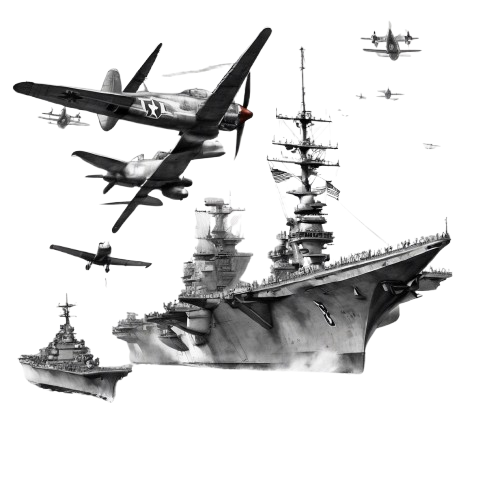
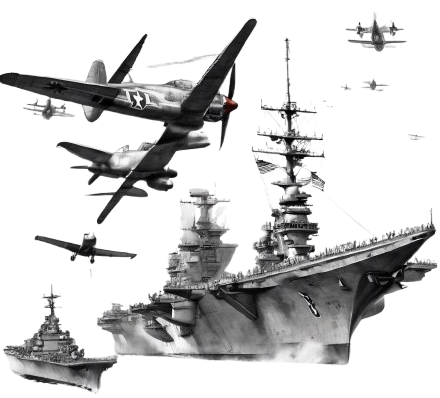
Landing page - Update with Substack Subscribe (#3)
* Working on landing page
- Implemented some media queries. Can I alter variable in media query?
- Wish there were a better hover effect for my links - maybe just do grow

* Finishing up landing page

* Add static zip (for cloudflare workers)

* Tweak styling for big screens

* zip isn't helpful

* Add substack subscribe

* Crop img

---------

diff --git a/static_landing/index.html b/static_landing/index.html
@@ -10,6 +10,15 @@
       href="https://fonts.googleapis.com/css2?family=Outfit:wght@100..900&family=Rosarivo:ital@0;1&display=swap"
       rel="stylesheet"
     />
+    <meta name="title" content="Historio - Explore history" />
+    <meta name="image" content="./img/logo_transparent.png" />
+
+    <meta
+      name="description"
+      content="An app to explore history that scratches my own itch. With NextJS, Supabase, Edge Functions, and a few clever AI Agents behind the scenes."
+    />
+    <meta name="author" content="Jordan Haines" />
+
     <title>Historio</title>
   </head>
   <body>
@@ -49,14 +58,31 @@
         </div>
       </div>
     </div>
-    <div class="images-footer">
-      <img src="./img/fire.png" alt="Discovery of Fire" />
-      <img src="./img/rome.png" alt="Rome" />
-      <img
-        style="opacity: 0.95; margin-top: 36px"
-        src="./img/midway_transparent.png"
-        alt="Warship and plane"
-      />
+    <div class="subscribe-container">
+      <div class="iframe-container">
+        <h2 class="itim">Subscribe to my Substack</h2>
+        <p>
+          To follow along as I build Historio. Posts include in-depth technical
+          tutorials, musings on product development, and everything in between.
+        </p>
+        <iframe
+          src="https://learnbuildteach.substack.com/embed"
+          width="480"
+          height="320"
+          style="border: 1px solid #eee; background: white"
+          frameborder="0"
+          scrolling="no"
+        ></iframe>
+      </div>
+      <div class="images-footer">
+        <img src="./img/fire.png" alt="Discovery of Fire" />
+        <img src="./img/rome.png" alt="Rome" />
+        <img
+          style="opacity: 0.95; margin-top: 36px"
+          src="./img/midway_transparent.png"
+          alt="Warship and plane"
+        />
+      </div>
     </div>
   </body>
 </html>

diff --git a/static_landing/main.scss b/static_landing/main.scss
@@ -113,18 +113,40 @@ h1 {
         }
     }
 }
+.subscribe-container {
+    margin-top: $padding * 1.5;
+    display: flex;
+    justify-content: space-around;
+    align-items: flex-end;
+    .iframe-container {
+        width: 480px;
+        text-align: center;
+        h2 {
+            margin-bottom: 4px;
+        }
+    }
+}
 .images-footer {
     display: flex;
     justify-content: space-around;
-    margin-top: $padding * 1.5;
+    flex-wrap: wrap;
+    width: 480px;
     img {
-        height: 200px;
-        border-radius: 20%;
+        height: 150px;
+        margin: 0 25px;
+        border-radius: 30%;
         opacity: 0.76;
     }
 }
 
 @media(max-width: $breakpointmd) {
+    .subscribe-container {
+        flex-direction: column;
+        align-items: center;
+        .images-footer {
+            margin-top: $padding * 1.5;
+        }
+    }
     .header {
         margin-bottom: $padding/3;
         padding-right: $padding/3;
@@ -185,12 +207,5 @@ h1 {
             height: 80px;
             margin: 0 !important;
         }
-    }
-}
-@media(min-height: 900px) {
-    .images-footer {
-        position: fixed;
-        bottom: $padding;
-        width: 100vw;
     }
 }

diff --git a/static_landing/main.css b/static_landing/main.css
@@ -109,18 +109,42 @@ h1 {
   color: white;
 }
 
+.subscribe-container {
+  margin-top: 96px;
+  display: flex;
+  justify-content: space-around;
+  align-items: flex-end;
+}
+.subscribe-container .iframe-container {
+  width: 480px;
+  text-align: center;
+}
+.subscribe-container .iframe-container h2 {
+  margin-bottom: 4px;
+}
+
 .images-footer {
   display: flex;
   justify-content: space-around;
-  margin-top: 96px;
+  flex-wrap: wrap;
+  width: 480px;
 }
 .images-footer img {
-  height: 200px;
-  border-radius: 20%;
+  height: 150px;
+  margin: 0 25px;
+  border-radius: 30%;
   opacity: 0.76;
 }
 
 @media (max-width: 1100px) {
+  .subscribe-container {
+    flex-direction: column;
+    align-items: center;
+  }
+  .subscribe-container .images-footer {
+    margin-top: 96px;
+  }
+
   .header {
     margin-bottom: 21.3333333333px;
     padding-right: 21.3333333333px;
@@ -192,13 +216,6 @@ h1 {
   .images-footer img {
     height: 80px;
     margin: 0 !important;
-  }
-}
-@media (min-height: 900px) {
-  .images-footer {
-    position: fixed;
-    bottom: 64px;
-    width: 100vw;
   }
 }
 
